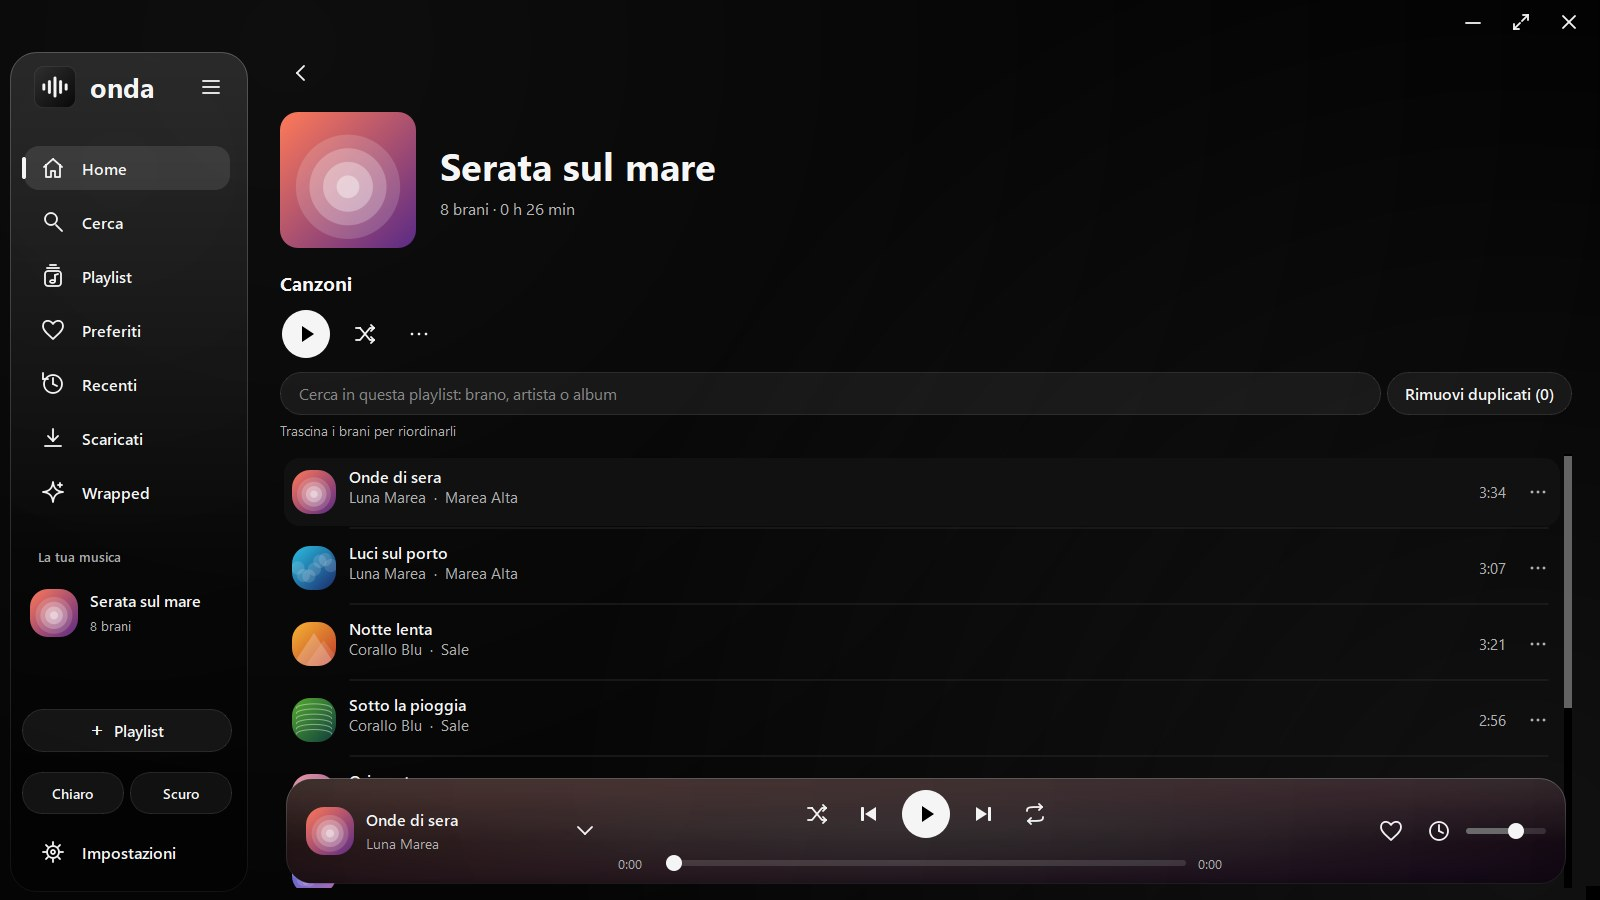
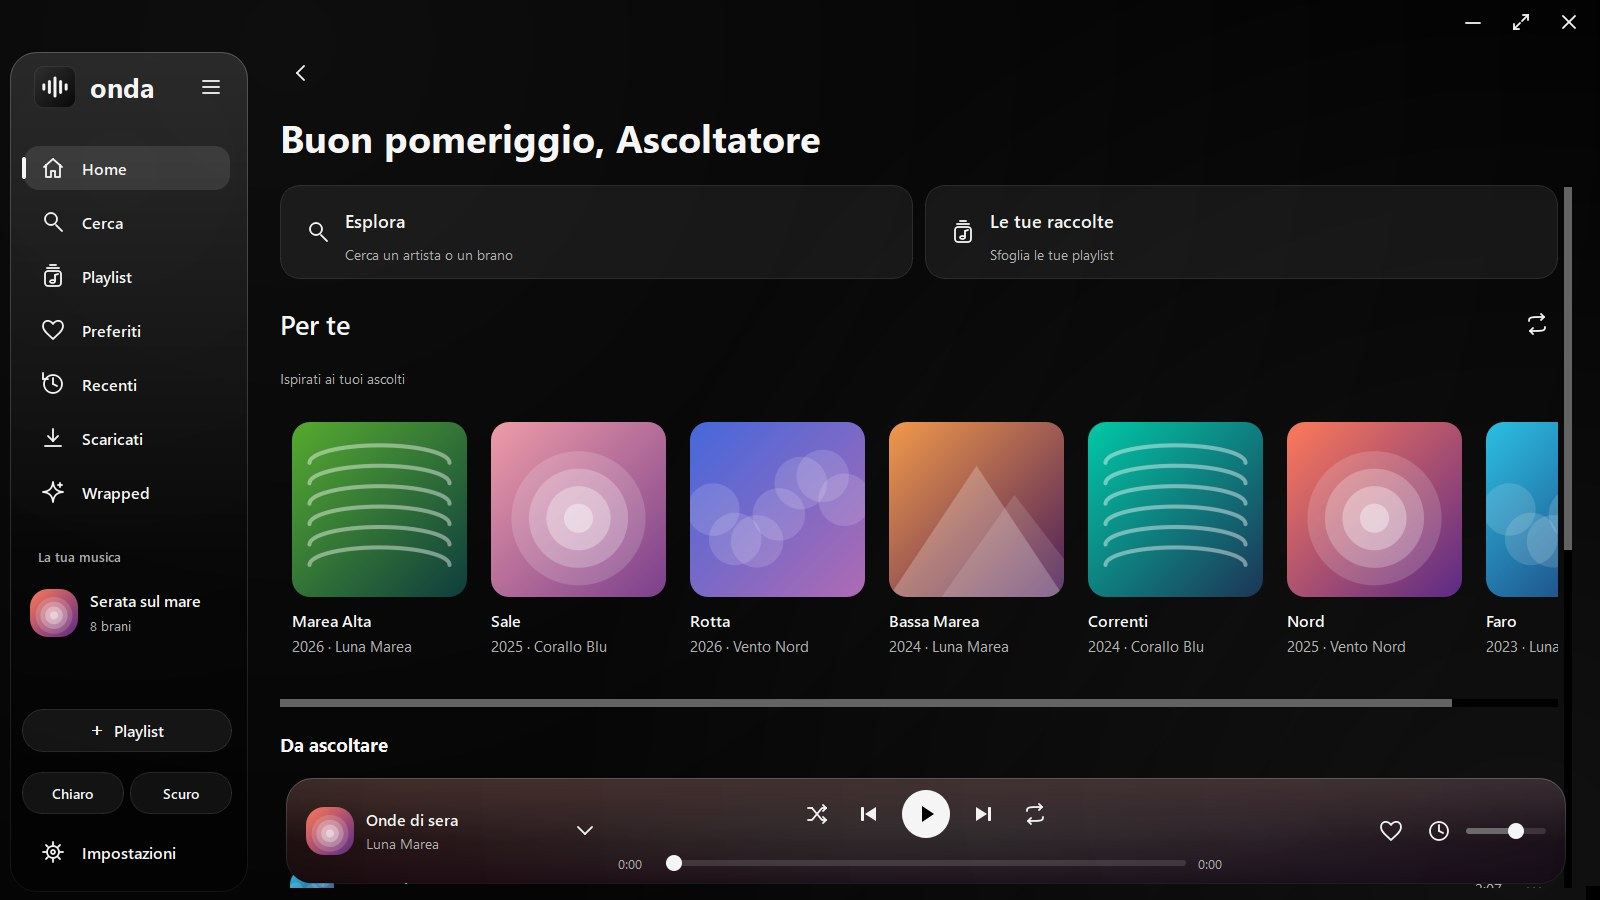
Galleria di schermate di esempio e Home come immagine principale

diff --git a/index.html b/index.html
@@ -21,7 +21,7 @@
   <meta http-equiv="Content-Security-Policy" content="default-src 'none'; img-src 'self' data:; font-src 'self'; style-src 'self' 'unsafe-inline'; script-src 'self'; base-uri 'self'; form-action 'none'">
   <meta name="author" content="voidale">
   <link rel="stylesheet" href="fonts.css?v=20261101-1">
-  <link rel="stylesheet" href="style.css?v=20261101-site4">
+  <link rel="stylesheet" href="style.css?v=20261101-site5">
   <script src="script.js?v=20261027-motion3" defer></script>
 </head>
 <body>
@@ -87,8 +87,8 @@
         </div>
         <figure class="project-shots">
           <img class="shot-main" src="assets/onda-ascolto.jpg" alt="Onda: vista di ascolto con copertina e testo sincronizzato a tempo" width="1600" height="900" loading="lazy" decoding="async">
-          <img class="shot-side" src="assets/onda-home.jpg" alt="Onda: pagina di una playlist con barra laterale in vetro" width="1600" height="900" loading="lazy" decoding="async">
-          <figcaption>Schermate di Onda con brani e copertine di esempio: vista di ascolto e playlist.</figcaption>
+          <img class="shot-side" src="assets/onda-home.jpg" alt="Onda: Home con suggerimenti e barra laterale in vetro" width="1600" height="900" loading="lazy" decoding="async">
+          <figcaption>Schermate di Onda con brani e copertine di esempio: vista di ascolto e Home.</figcaption>
         </figure>
       </article>
       <div class="project-grid">
@@ -106,6 +106,11 @@
           <div class="project-stack"><span>HTML</span><span>CSS</span><span>JavaScript</span></div>
           <span class="service-action">Torna all’inizio</span>
         </a>
+      </div>
+      <div class="gallery" id="galleria">
+        <h3 class="faq-title">Galleria</h3>
+        <div class="gallery-grid"><a class="gallery-item" href="assets/screenshots/home-scuro.jpg" target="_blank" rel="noopener noreferrer"><img src="assets/screenshots/home-scuro.jpg" alt="Onda: Home con suggerimenti e barra laterale in vetro" width="1600" height="900" loading="lazy" decoding="async"><span>Home</span></a><a class="gallery-item" href="assets/screenshots/home-chiaro.jpg" target="_blank" rel="noopener noreferrer"><img src="assets/screenshots/home-chiaro.jpg" alt="Onda: La Home con il tema chiaro" width="1600" height="900" loading="lazy" decoding="async"><span>Tema chiaro</span></a><a class="gallery-item" href="assets/screenshots/home-oceano.jpg" target="_blank" rel="noopener noreferrer"><img src="assets/screenshots/home-oceano.jpg" alt="Onda: Uno degli 11 temi: Oceano" width="1600" height="900" loading="lazy" decoding="async"><span>Tema Oceano</span></a><a class="gallery-item" href="assets/screenshots/barra-ridotta.jpg" target="_blank" rel="noopener noreferrer"><img src="assets/screenshots/barra-ridotta.jpg" alt="Onda: Barra laterale ridotta a sole icone e copertine" width="1600" height="900" loading="lazy" decoding="async"><span>Barra ridotta</span></a><a class="gallery-item" href="assets/screenshots/playlist.jpg" target="_blank" rel="noopener noreferrer"><img src="assets/screenshots/playlist.jpg" alt="Onda: Pagina di una playlist con ricerca e riordino" width="1600" height="900" loading="lazy" decoding="async"><span>Playlist</span></a><a class="gallery-item" href="assets/screenshots/impostazioni.jpg" target="_blank" rel="noopener noreferrer"><img src="assets/screenshots/impostazioni.jpg" alt="Onda: Impostazioni a schede di vetro" width="1600" height="900" loading="lazy" decoding="async"><span>Impostazioni</span></a><a class="gallery-item" href="assets/screenshots/ascolto.jpg" target="_blank" rel="noopener noreferrer"><img src="assets/screenshots/ascolto.jpg" alt="Onda: Copertina e testo sincronizzato" width="1600" height="900" loading="lazy" decoding="async"><span>Vista di ascolto</span></a></div>
+        <p class="project-note">Tutte le schermate usano brani, artisti e copertine di esempio.</p>
       </div>
       <div class="faq" id="faq">
         <h3 class="faq-title">Domande su Onda</h3>

diff --git a/style.css b/style.css
@@ -195,3 +195,17 @@ footer{color:#9a9a9a}
 @media(max-width:700px){.timeline:before{left:5px}.t-item>div{padding:18px}.t-item:before{left:-1px;top:6px}.t-item time{padding-top:0}.timeline-tip{grid-template-columns:1fr;padding:22px}.t-item:hover>div{transform:none}}
 html[data-motion="reduced"] .t-item:hover>div{transform:none}
 @media(hover:none){.t-item:hover>div{transform:none}}
+
+/* Galleria */
+.gallery{margin-top:50px;border-top:1px solid var(--line);padding-top:34px}
+.gallery-grid{display:grid;grid-template-columns:repeat(3,minmax(0,1fr));gap:14px}
+.gallery-item{position:relative;display:block;overflow:hidden;border:1px solid #303030;border-radius:12px;background:#0f0f0f;transition:transform .3s,border-color .3s,box-shadow .3s}
+.gallery-item img{display:block;width:100%;height:auto;transition:transform .5s}
+.gallery-item span{position:absolute;left:12px;bottom:12px;font-size:11px;letter-spacing:.5px;color:#f0f0f0;background:#000000b3;border:1px solid #ffffff1c;border-radius:20px;padding:6px 11px}
+.gallery-item:hover{transform:translateY(-5px);border-color:#777;box-shadow:0 18px 40px #00000066}
+.gallery-item:hover img{transform:scale(1.03)}
+.gallery-item:focus-visible{outline:2px solid #e0e0e0;outline-offset:4px}
+@media(max-width:900px){.gallery-grid{grid-template-columns:repeat(2,minmax(0,1fr))}}
+@media(max-width:560px){.gallery-grid{grid-template-columns:1fr}}
+html[data-motion="reduced"] .gallery-item:hover,html[data-motion="reduced"] .gallery-item:hover img{transform:none}
+@media(hover:none){.gallery-item:hover,.gallery-item:hover img{transform:none}}
